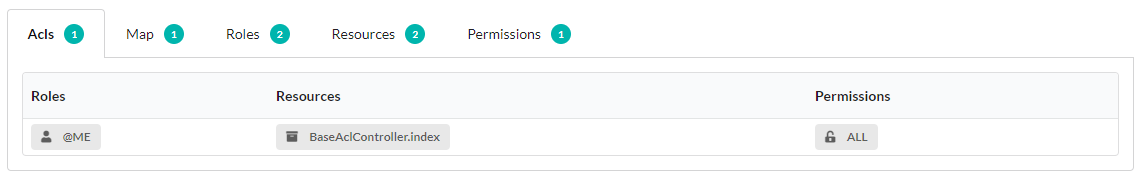
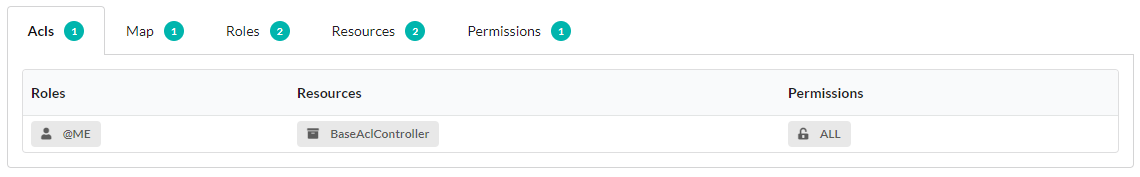
{skip ci][doc] acl suite

diff --git a/docs/security/acl.rst b/docs/security/acl.rst
@@ -100,7 +100,7 @@ This controller just goes to redefine the ``_getRole`` method, so that it return
       }
 
       public function _getRole() {
-         return '@ME';
+         $_GET['role']??'@ME';//Just for testing: logically, this is the active user's role
       }
 
       /**
@@ -113,6 +113,8 @@ This controller just goes to redefine the ``_getRole`` method, so that it return
    }
 
 Authorisation has been granted for the resource:
+  * Without specifying the resource, the controller's actions are defined as a resource.
+  * Without specifying the permission, the ``ALL`` permission is used.
 
 .. image:: /_static/images/security/acls/me-allow.png
    :class: bordered
@@ -122,4 +124,61 @@ And this association is present in the Acls map:
 .. image:: /_static/images/security/acls/me-map.png
    :class: bordered
 
+Allow with Role, resource and permission
+^^^^^^^^^^^^^^^^^^^^^^^^^^^^^^^^^^^^^^^^
+Allow without prior creation:
+
+``@USER`` is allowed to access to ``Foo`` resource with ``READ`` permission.
+
+.. code-block:: php
+   :caption: app/controllers/BaseAclController.php
+
+   use Ubiquity\attributes\items\acl\Allow;
+
+   class BaseAclController extends Controller {
+   use AclControllerTrait;
+      ...
+
+      #[Allow('@USER','Foo', 'READ')]
+      public function foo(){
+         echo 'foo page allowed for @USER and @ME';
+      }
+   }
+
+.. note::
+   The role, resource and permission are automatically created as soon as they are invoked with ``Allow``.
+
+Allow with explicit creation:
+
+.. code-block:: php
+   :caption: app/controllers/BaseAclController.php
+
+   use Ubiquity\attributes\items\acl\Allow;
+   use Ubiquity\attributes\items\acl\Permission;
+
+   class BaseAclController extends Controller {
+   use AclControllerTrait;
+      ...
+
+      #[Permission('READ',500)]
+      #[Allow('@USER','Foo', 'READ')]
+      public function foo(){
+         echo 'foo page allowed for @USER and @ME';
+      }
+   }
+
+Adding ACL at runtime
+*********************
+
+Whether in a controller or in a service, it is possible to add Roles, Resources, Permissions and Authorizations at runtime:
+
+For example :\\
+Adding a Role ``@USER`` inheriting from ``@GUEST``.
+
+.. code-block:: php
+
+   use Ubiquity\security\acl\AclManager;
+
+   AclManager::addRole('@GUEST');
+   AclManager::addRole('@USER',['@GUEST']);
 

diff --git a/docs/security/module.rst b/docs/security/module.rst
@@ -288,4 +288,5 @@ To then decrypt it, with possible serialisation/deserialisation if it is an obje
 
     $user=EncryptionManager::decrypt($encryptedUser);
 
-
+Password management
+===================
